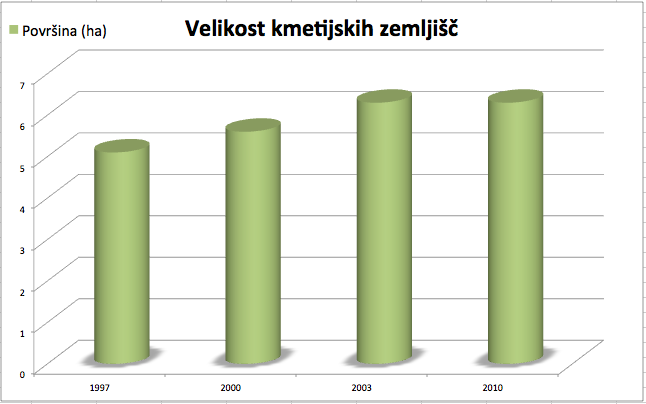
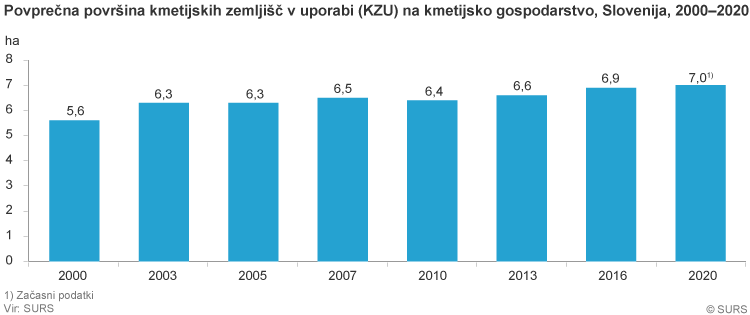
2022-11-23 21:04

diff --git a/GEO-kmetijstvo.md b/GEO-kmetijstvo.md
@@ -75,7 +75,7 @@
         - velikost kmetijskih obratov se je začela **večati šele po osamosvojitvi**
         - št kmetij je **upadlo**
         - **več manjših kmetij** in zelo **malo** veklikih kmetijskih gospodarstev
-        - **povprečna kmetija** je velika **6ha**, dobičkonosno bi bilo **najmanj 10ha**
+        - **povprečna kmetija** je velika **7ha** - leto 2020, dobičkonosno bi bilo **najmanj 10ha**
         ![velikost kmetijskih zemljišč](imgs/velikost_kmetijskih_zemlji%C5%A1%C4%8D.png)
     - **prostorska razporeditev parcel**
         - posamezne **parcele razpršene in pomešane** med drugimi lastniki
@@ -152,6 +152,7 @@
     - https://kmetija-tavcar.si/wp-content/gallery/kmetijstvo/DSCN5084.JPG, dostopano 23. 11. 2022
     - https://eucbeniki.sio.si/geo9/2627/Raba_tal.png, dostopano 23. 11. 2022
     - https://upload.wikimedia.org/wikipedia/commons/thumb/7/76/Unload_wheat_by_the_combine_Claas_Lexion_584.jpg/1920px-Unload_wheat_by_the_combine_Claas_Lexion_584.jpg, dostopano 23. 11. 2022
+    - https://www.stat.si/StatWeb/File/NewsImage/27865, dostopano 23. 11. 2022
     - https://eucbeniki.sio.si/geo9/2627/Nasad%20hmelja.JPG, dostopano 23. 11. 2022
     - https://eucbeniki.sio.si/geo9/2627/slika_9-ogrscica.1.JPG, dostopano 23. 11. 2022
     - https://upload.wikimedia.org/wikipedia/commons/3/3b/Bauernhof.jpg, dostopano 23. 11. 2022
